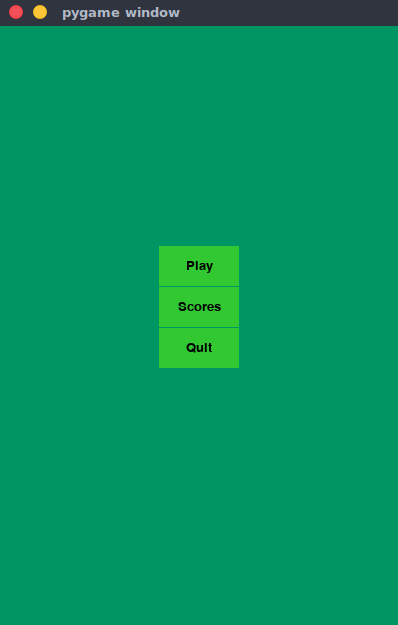
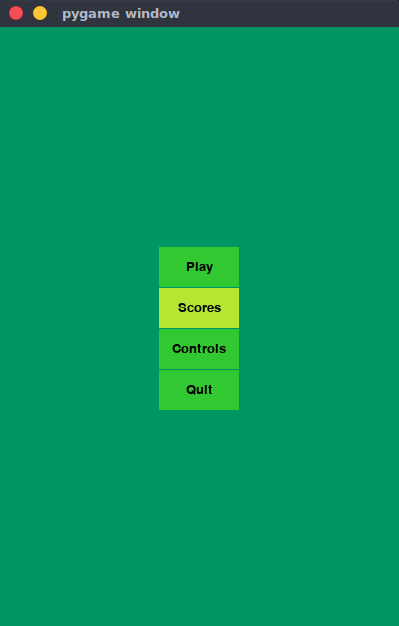
controls description added

diff --git a/controlsDescription.py b/controlsDescription.py
@@ -1,0 +1,58 @@
+import pygame
+
+from window import BaseWindow, Window
+from mainMenu import MainMenu
+from layout import Button, printText
+
+pygame.init()
+
+
+
+def changetoMainMenu():
+	Window.setWindowName("MainMenu")
+
+
+class ControlsDescription(BaseWindow):
+	def __init__(self):
+		super().__init__()
+
+		self.size = (w,h) = (400,600)
+		self.bg = self.getTextSurface()
+		self.clock = pygame.time.Clock()
+
+		self.backButton = Button((w//2+160-80,500),(80,40), "Back", action=changetoMainMenu)
+
+
+	def getTextSurface(self):
+		font = pygame.font.SysFont("comicsansms", 25)
+
+		surf = pygame.Surface((400,600))
+		surf.fill((0,150,100))
+
+
+		left = font.render("a : LEFT", True, (255,255,0))
+		right = font.render("d : RIGHT", True, (255,255,0))
+		up = font.render("w : UP", True, (255,255,0))
+		down = font.render("s : DOWN", True, (255,255,0))
+		fire = font.render("space : FIRE", True, (255,255,0))
+		aim = font.render("mouse : AIM", True, (255,255,0))
+
+		surf.blit(left,(150,200))
+		surf.blit(right,(150,220))
+		surf.blit(up,(150,240))
+		surf.blit(down,(150,260))
+		surf.blit(fire,(150,280))
+		surf.blit(aim,(150,300))
+
+
+		return surf
+
+	def checkEvents(self,ev):
+		self.backButton.checkEvents()
+
+	def draw(self,surf):
+
+		surf.blit(self.bg,(0,0))
+		self.backButton.draw(surf)
+
+

diff --git a/mainMenu.py b/mainMenu.py
@@ -2,8 +2,7 @@
 import pygame, sys
 
 from layout import Menu
-from window import Window
-from window import BaseWindow
+from window import Window, BaseWindow
 
 pygame.init()
 
@@ -18,6 +17,10 @@ def changetoPlay():
 def changetoScores():
 	Window.setWindowName("LeaderBoard")
 
+def changetoControls():
+	Window.setWindowName("ControlsDescription")
+
+
 
 class MainMenu(BaseWindow):
 	def __init__(self):
@@ -25,7 +28,7 @@ class MainMenu(BaseWindow):
 		self.size = (w,h) = (400,600)
 		self.bg = pygame.Surface((w,h))
 		self.bg.fill((0,150,100))
-		self.menu = Menu((w//2-40,h//2-(20)*4),(80,40),["Play","Scores","Quit"],[changetoPlay,changetoScores,quit])
+		self.menu = Menu((w//2-40,h//2-(20)*4),(80,40),["Play","Scores","Controls","Quit"],[changetoPlay,changetoScores,changetoControls,quit])
 		self.clock = pygame.time.Clock()
 
 	def checkEvents(self,ev):

diff --git a/app.py b/app.py
@@ -4,6 +4,7 @@ from window import Window, BaseWindow
 from gameplay import GamePlay
 from leaderbord import LeaderBoard
 from mainMenu import MainMenu
+from controlsDescription import ControlsDescription
 
 pygame.init()
 
@@ -12,7 +13,7 @@ def main():
 	w,h = 400,600
 	screen = pygame.display.set_mode((w,h))
 
-	windows={"MainMenu":MainMenu, "LeaderBoard":LeaderBoard, "GamePlay":GamePlay, "BaseWindow":BaseWindow}
+	windows={"MainMenu":MainMenu, "LeaderBoard":LeaderBoard, "GamePlay":GamePlay, "ControlsDescription":ControlsDescription, "BaseWindow":BaseWindow}
 
 	Window.setWindow(MainMenu())
 

diff --git a/layout.py b/layout.py
@@ -59,6 +59,12 @@ class Menu:
 			b.checkEvents()
 
 
+def printText(surf,pos,text):
+    font = pygame.font.SysFont("comicsansms", 25)
+    text = font.render(str(text), True, (10,10,10))
+    surf.blit(text,pos)
+
+
 
 
 
